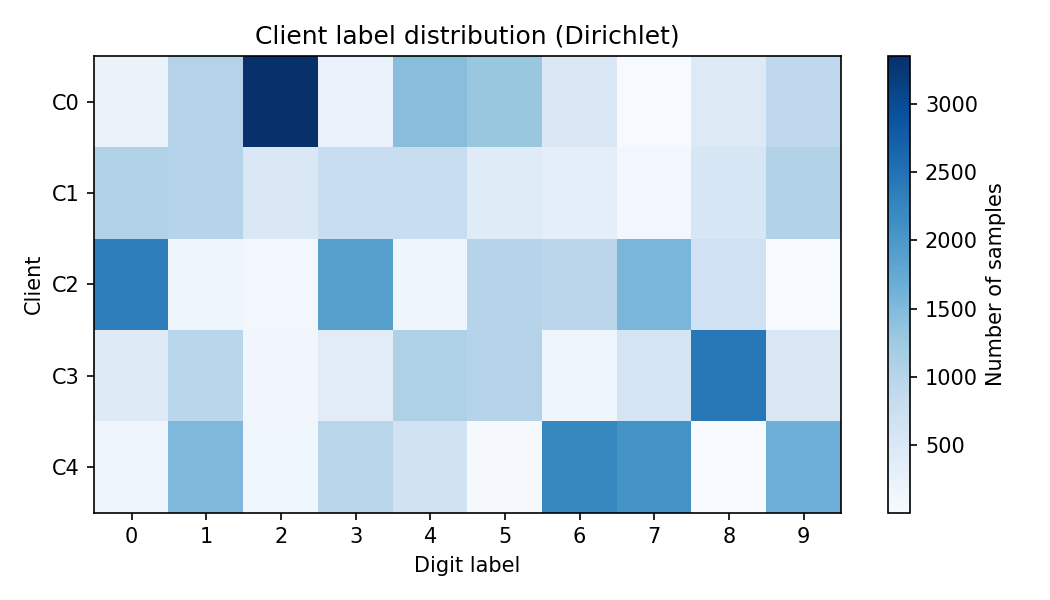
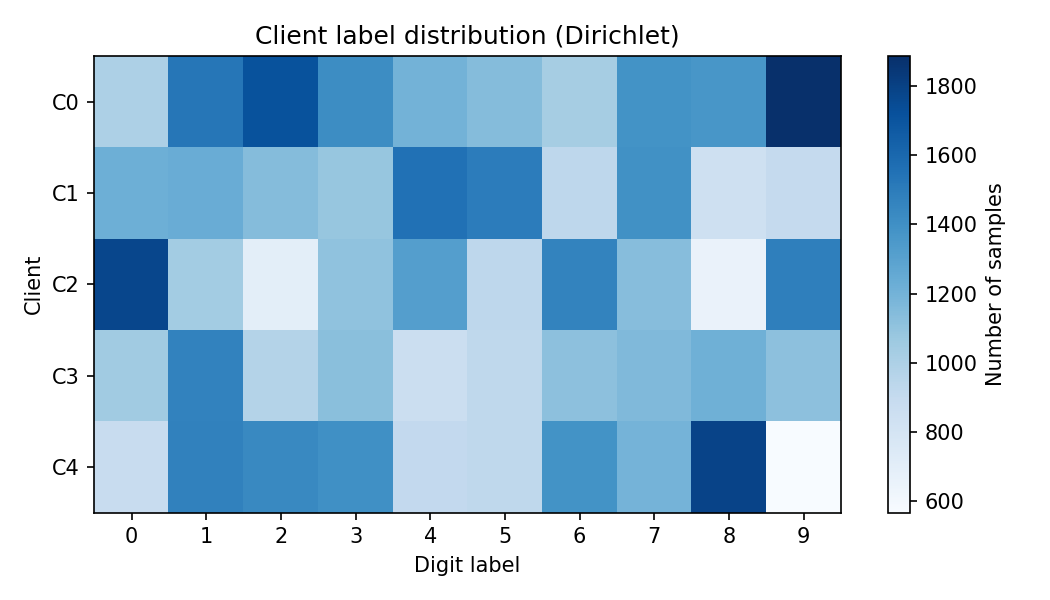
modified plotting output directory

diff --git a/src/training_paradigms/lib/plotting.py b/src/training_paradigms/lib/plotting.py
@@ -1,8 +1,22 @@
 import matplotlib.pyplot as plt
 import numpy as np
 import seaborn as sns
+from pathlib import Path
 
-def plot_loss( losses):
+
+def _save_plot(filename, output_dir=None, dpi=None):
+    if output_dir is not None:
+        output_path = Path(output_dir)
+        output_path.mkdir(parents=True, exist_ok=True)
+        target = output_path / filename
+    else:
+        target = Path(filename)
+    if dpi is not None:
+        plt.savefig(target, dpi=dpi)
+    else:
+        plt.savefig(target)
+
+def plot_loss(losses, output_dir=None):
     epochs = range(1, len(losses) + 1)
 
 #loss plot
@@ -13,12 +27,12 @@ def plot_loss( losses):
     plt.ylabel('Loss')
     plt.xticks(get_sparse_ticks(len(losses)))
     plt.tight_layout()
-    plt.savefig('loss.png')
+    _save_plot("loss.png", output_dir=output_dir)
     plt.show()
     
 
 
-def plot_acc( val_accuracies):
+def plot_acc(val_accuracies, output_dir=None):
     epochs = range(1, len(val_accuracies) + 1)
     #acc plot
     plt.figure()
@@ -28,13 +42,13 @@ def plot_acc( val_accuracies):
     plt.ylabel('Accuracy (%)')
     plt.xticks(get_sparse_ticks(len(val_accuracies)))
     plt.tight_layout()
-    plt.savefig('accuracy.png')
+    _save_plot("accuracy.png", output_dir=output_dir)
     plt.show()
 
 
 
 
-def plot_loss_overlay(central_losses, fed_results):
+def plot_loss_overlay(central_losses, fed_results, output_dir=None):
     """
     Overlay loss curves for centralized vs federated training.
     central_losses: list of per-epoch losses from centralized training
@@ -65,11 +79,11 @@ def plot_loss_overlay(central_losses, fed_results):
     max_rounds = max(len(central_losses), *(len(r["losses"]) for r in fed_results.values()))
     ax.set_xticks(get_sparse_ticks(max_rounds))
     plt.tight_layout()
-    plt.savefig("loss_comparison.png", dpi=150)
+    _save_plot("loss_comparison.png", output_dir=output_dir, dpi=150)
     plt.show()
 
 
-def plot_acc_overlay(central_accs, fed_results):
+def plot_acc_overlay(central_accs, fed_results, output_dir=None):
     """
     Overlay validation accuracy curves for centralized vs federated training.
     central_accs: list of per-epoch val accuracies from centralized training
@@ -99,11 +113,11 @@ def plot_acc_overlay(central_accs, fed_results):
     max_rounds = max(len(central_accs), *(len(r["losses"]) for r in fed_results.values()))
     ax.set_xticks(get_sparse_ticks(max_rounds))
     plt.tight_layout()
-    plt.savefig("acc_comparison.png", dpi=150)
+    _save_plot("acc_comparison.png", output_dir=output_dir, dpi=150)
     plt.show()
 
 
-def plot_client_label_distribution(client_training_loaders):
+def plot_client_label_distribution(client_training_loaders, output_dir=None):
     """
     Visualize how many samples of each label each client has
     using a heatmap (clients x classes).
@@ -133,10 +147,10 @@ def plot_client_label_distribution(client_training_loaders):
     cbar.set_label("Number of samples")
 
     plt.tight_layout()
-    plt.savefig("client_label_distribution.png", dpi=150)
+    _save_plot("client_label_distribution.png", output_dir=output_dir, dpi=150)
     plt.show()
 
-def plot_cm(cm):
+def plot_cm(cm, output_dir=None):
     plt.figure()
     sns.heatmap(
         cm,
@@ -148,7 +162,7 @@ def plot_cm(cm):
     plt.xlabel("Predicted")
     plt.ylabel("True")
     plt.title("Confusion Matrix")
-    plt.savefig("confusion_matrix.png", dpi=150)
+    _save_plot("confusion_matrix.png", output_dir=output_dir, dpi=150)
     plt.show()
 
 def get_sparse_ticks(n, num_ticks=5):

diff --git a/src/training_paradigms/lib/utils_client_training.py b/src/training_paradigms/lib/utils_client_training.py
@@ -89,7 +89,7 @@ def evaluate_model(dataloader, global_model, prev_f1, prev_accuracy, convergence
     accuracy = (correct / total)*100
     current_f1 = f1_score(all_true, all_predicted, average='macro')
     if (convergence == "f1" and abs(current_f1 - prev_f1) < 0.0001) or \
-   (convergence == "acc" and abs(accuracy - prev_accuracy) < 0.05):
+   (convergence == "acc" and abs(accuracy - prev_accuracy) < 0.9):
         small_change = True
         #generate_confusion_matrix(all_true, all_predicted)
         print(f'Accuracy {accuracy}%\n')
@@ -117,7 +117,7 @@ def aggregate(number_of_samples, client_state_dictionary, global_model):
     return global_model
 
 
-def run_centralised_ml(number_of_epochs, train_loader, val_loader, test_loader, model, lr, convergence):
+def run_centralised_ml(number_of_epochs, train_loader, val_loader, test_loader, model, lr, convergence, plot_dir=None):
     """
     Centralized training via ``train_local``; prints timing and test accuracy; plots loss and validation accuracy curves.
     Parameters — number_of_epochs: ``int``. train_loader, val_loader, test_loader: ``DataLoader``. model: ``nn.Module``. lr: ``float``.
@@ -133,12 +133,12 @@ def run_centralised_ml(number_of_epochs, train_loader, val_loader, test_loader, 
     test_accuracy, _, _, _, _ = evaluate_model(test_loader, model, 0, 0, None)
     print(f"Total training time: {end_time-start_time:.2f} seconds")
     print(f"No convergence, but test Accuracy: {test_accuracy:.2f}%")
-    plot_loss( losses)
-    plot_acc( val_accuracies)
+    plot_loss(losses, output_dir=plot_dir)
+    plot_acc(val_accuracies, output_dir=plot_dir)
     return losses, val_accuracies
 
 
-def run_fl(number_of_rounds, number_of_clients, epochs, global_model, client_training_loaders, val_loader, test_loader, lr, participation_rate, convergence):
+def run_fl(number_of_rounds, number_of_clients, epochs, global_model, client_training_loaders, val_loader, test_loader, lr, participation_rate, convergence, plot_dir=None):
     """
     Federated rounds: random client subset, local ``train_local``, ``aggregate`` (FedAvg), validate, optional early stop; plots metrics.
     Parameters — number_of_rounds, number_of_clients, epochs: ``int``. global_model: ``nn.Module``. client_training_loaders: ``list[DataLoader]``.
@@ -193,18 +193,18 @@ def run_fl(number_of_rounds, number_of_clients, epochs, global_model, client_tra
     end_time = time.time()
     print(f"Total training time: {end_time-start_time:.2f} seconds")
 
-    plot_loss(global_losses)
-    plot_acc(global_val_accuracies)
+    plot_loss(global_losses, output_dir=plot_dir)
+    plot_acc(global_val_accuracies, output_dir=plot_dir)
     return global_losses, global_val_accuracies
 
 
-def generate_confusion_matrix(true, predicted):
+def generate_confusion_matrix(true, predicted, output_dir=None):
     """
     Computes a confusion matrix from label sequences and displays it via ``plot_cm``.
     Parameters — true: ground-truth class indices (sequence). predicted: predicted class indices (sequence, aligned with ``true``).
     Returns: ``numpy.ndarray`` from ``sklearn.metrics.confusion_matrix``.
     """
     cm = confusion_matrix(true, predicted)
-    plot_cm(cm)
+    plot_cm(cm, output_dir=output_dir)
     return cm
 

diff --git a/src/training_paradigms/overlay/comparison_overlay.py b/src/training_paradigms/overlay/comparison_overlay.py
@@ -17,6 +17,8 @@ from training_paradigms.lib.plotting import (
     plot_client_label_distribution,
 )
 
+PLOT_DIR = os.path.join(os.path.dirname(__file__), "plots")
+
 
 # %%
 # Data Loading
@@ -37,7 +39,7 @@ device = torch.device(
 )
 model = CNN().to(device)
 
-NUMBER_OF_CLIENTS = [2, 5, 10, 20, 50]
+NUMBER_OF_CLIENTS = [2, 5]
 NUMBER_OF_EPOCHS = 3
 NUMBER_OF_ROUNDS = 10000
 DIRICHLET_ALPHA = 10
@@ -60,7 +62,8 @@ central_losses, central_val_accs  =  run_centralised_ml(number_of_epochs = NUMBE
                                                       test_loader = test_loader,
                                                       model = model,
                                                       lr = 0.01,
-                                                      convergence= "acc")
+                                                      convergence= "acc",
+                                                      plot_dir = PLOT_DIR)
 
 # Now we need to aggregate the results with FedAvg
 fed_results = {}
@@ -82,7 +85,8 @@ for num_clients in NUMBER_OF_CLIENTS:
                                                   test_loader = test_loader,
                                                   lr = 0.05,
                                                   participation_rate = 1,
-                                                  convergence = "acc")
+                                                  convergence = "acc",
+                                                  plot_dir = PLOT_DIR)
     fed_results[num_clients] = {
         "losses": fed_losses,
         "accs": fed_val_accs
@@ -90,6 +94,6 @@ for num_clients in NUMBER_OF_CLIENTS:
 
 
 # PLOTS
-plot_loss_overlay(central_losses, fed_results) # loss comparison between ML and FL
-plot_acc_overlay(central_val_accs, fed_results) # accuracy comparison between ML and FL
-plot_client_label_distribution(client_training_loaders) # create a heatmap-style overview per client
+plot_loss_overlay(central_losses, fed_results, output_dir=PLOT_DIR) # loss comparison between ML and FL
+plot_acc_overlay(central_val_accs, fed_results, output_dir=PLOT_DIR) # accuracy comparison between ML and FL
+plot_client_label_distribution(client_training_loaders, output_dir=PLOT_DIR) # create a heatmap-style overview per client

diff --git a/src/training_paradigms/Centralized_Training/centralised_ML.py b/src/training_paradigms/Centralized_Training/centralised_ML.py
@@ -10,6 +10,8 @@ from torch.utils.data import random_split
 from training_paradigms.lib.utils_client_training import run_centralised_ml
 from models.model_implementation import CNN
 
+PLOT_DIR = os.path.join(os.path.dirname(__file__), "plots")
+
 # %%
 # load the dataset
 # now each image mnist_trainset[i][0] is a tensor of shape [1, 28, 28] (1 channel, 28×28 pixels)
@@ -35,4 +37,5 @@ run_centralised_ml(number_of_epochs = 3,
                    train_loader = train_loader,
                    val_loader = val_loader,
                    test_loader = test_loader,
-                   model = model)
+                   model = model,
+                   plot_dir = PLOT_DIR)

diff --git a/src/training_paradigms/Federated_Learning/FL.py b/src/training_paradigms/Federated_Learning/FL.py
@@ -12,6 +12,8 @@ from training_paradigms.lib.utils_client_training import run_fl
 from training_paradigms.lib.data_loading import create_dirichlet_client_loaders, debug_non_iid_split
 from models.model_implementation import CNN
 
+PLOT_DIR = os.path.join(os.path.dirname(__file__), "plots")
+
 # %%
 # Data Loading
 transform = transforms.ToTensor()
@@ -47,4 +49,5 @@ run_fl(number_of_rounds = 3,
        global_model = global_model,
        client_training_loaders = client_training_loaders,
        val_loader = val_loader,
-       test_loader = test_loader)
+       test_loader = test_loader,
+       plot_dir = PLOT_DIR)
